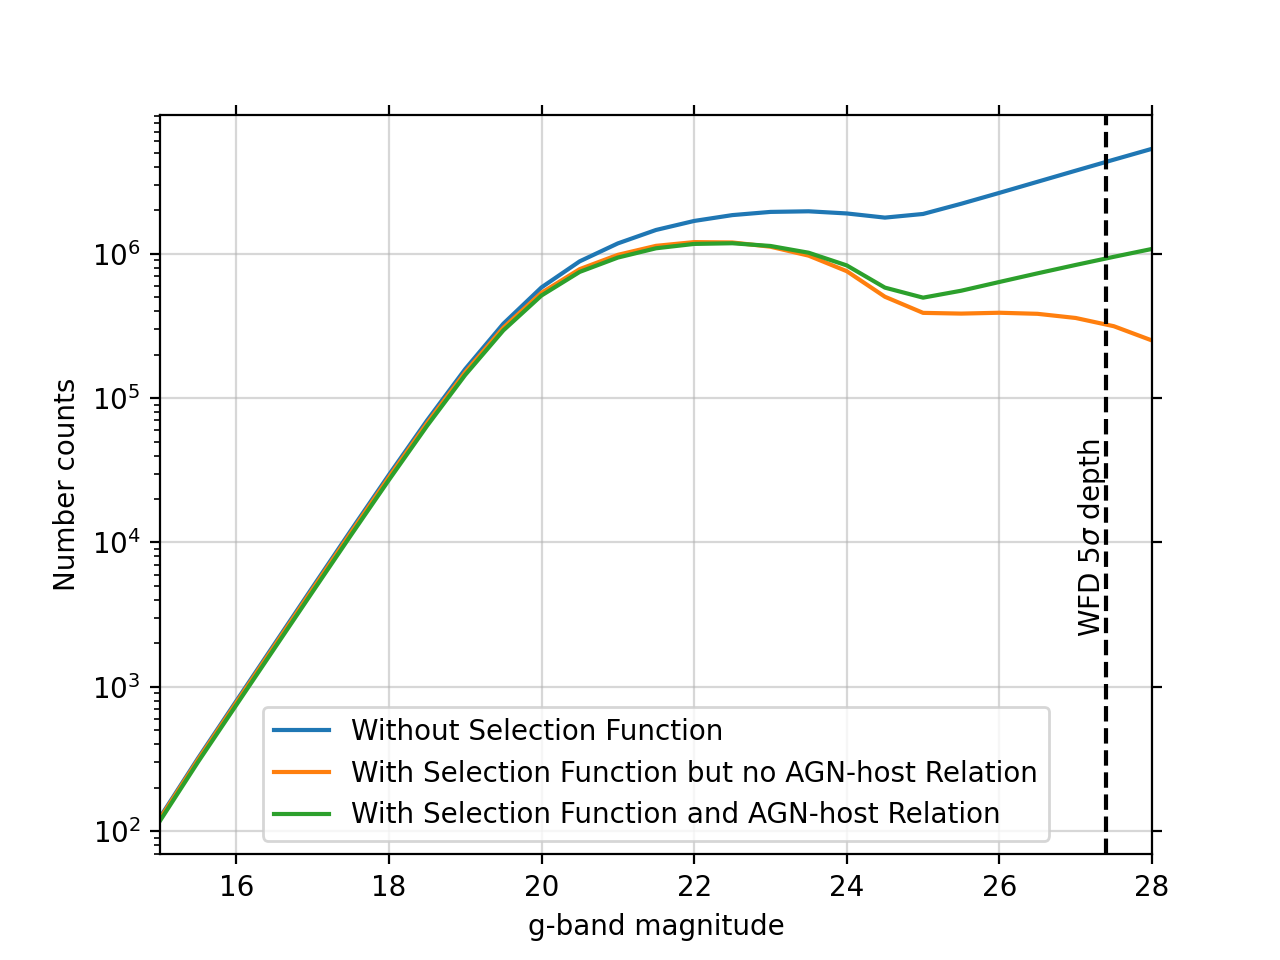
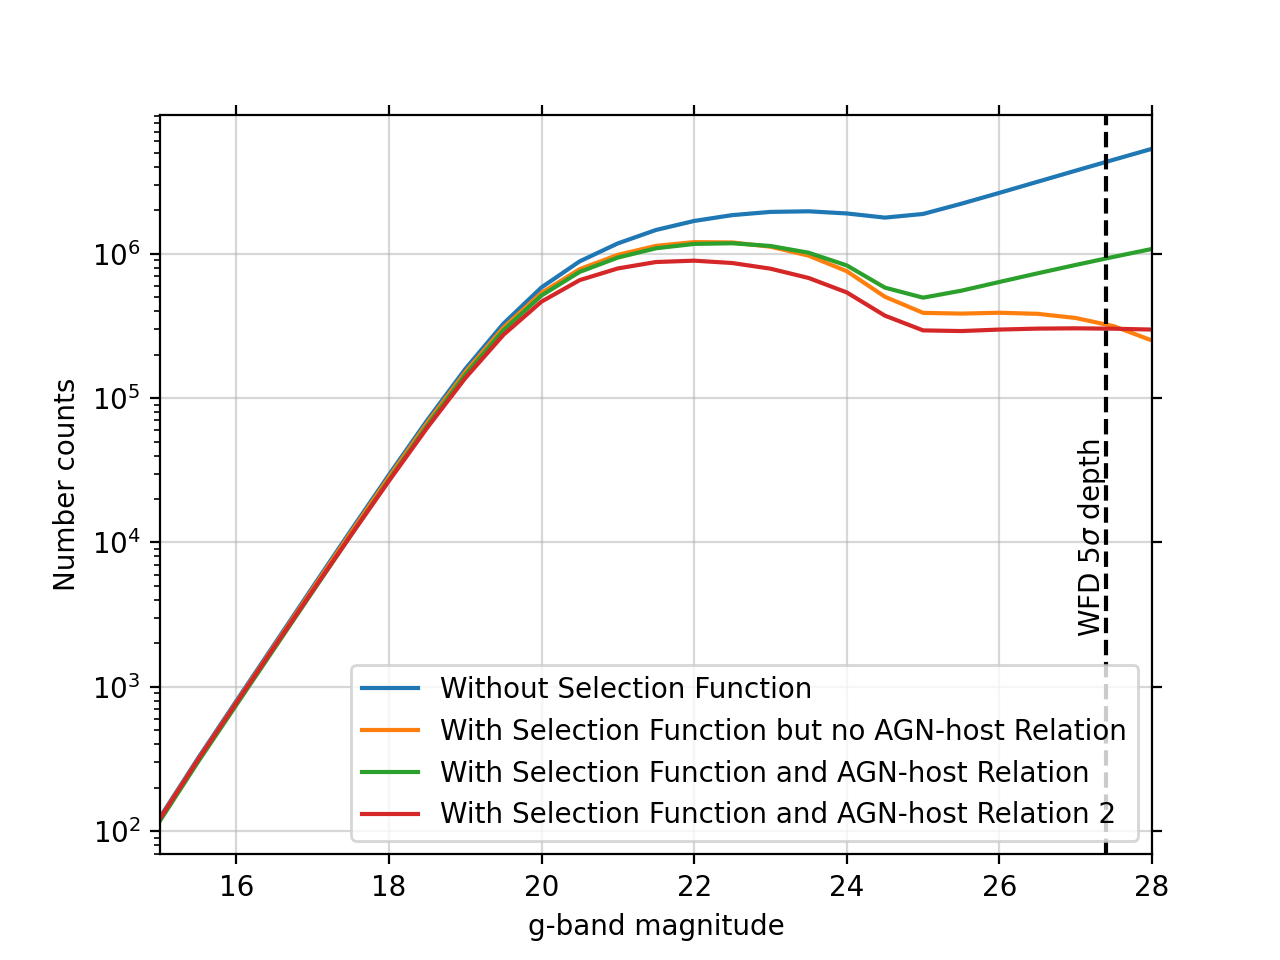
Implemented GLF from Ananna+22

diff --git a/qlfhosts/GLFs/Kollmeier06.py b/qlfhosts/GLFs/Kollmeier06.py
@@ -4,7 +4,9 @@ import astropy.units as u
 from astropy.constants import L_sun, c
 from scipy.special import erf
 
-class Kollmeier06(object):
+from .agnLeddBased import AGNLeddBased
+
+class Kollmeier06(AGNLeddBased):
 
     def __init__(self,**kargs):
 
@@ -15,28 +17,33 @@ class Kollmeier06(object):
 
     def P(self, Lh_nu_max, **kargs):
 
-        #Chek that the SED model object was passed along.
-        for key in ('L_AGN', 'hosts_sed', 'k_hosts_sed', 'lam_rest'):
-            if key not in kargs:
-                print('To calculate P in the Kollmeier06 module you need to include the parameter {}.'.format(key))
-                return [None]*len(Lh_nu_max)
+        # #Chek that the SED model object was passed along.
+        # for key in ('L_AGN', 'hosts_sed', 'k_hosts_sed', 'lam_rest'):
+        #     if key not in kargs:
+        #         print('To calculate P in the Kollmeier06 module you need to include the parameter {}.'.format(key))
+        #         return [None]*len(Lh_nu_max)
 
-        #Get the corresponding V-band bulge luminosity density for the host luminosity density at the rest-frame wavelength of the observations.
-        hosts_sed = kargs['hosts_sed']
-        k_hosts_sed = kargs['k_hosts_sed']
-        lam_rest = kargs['lam_rest']
-        Lh_nu_V_max = hosts_sed.Lnu(0.545*u.micron)[k_hosts_sed] * (Lh_nu_max/hosts_sed.Lnu(lam_rest)[k_hosts_sed])
-        Lh_nu_V_bulge_max = hosts_sed.bt_ratio[k_hosts_sed] * Lh_nu_V_max
+        # #Get the corresponding V-band bulge luminosity density for the host luminosity density at the rest-frame wavelength of the observations.
+        # hosts_sed = kargs['hosts_sed']
+        # k_hosts_sed = kargs['k_hosts_sed']
+        # lam_rest = kargs['lam_rest']
+        # Lh_nu_V_max = hosts_sed.Lnu(0.545*u.micron)[k_hosts_sed] * (Lh_nu_max/hosts_sed.Lnu(lam_rest)[k_hosts_sed])
+        # Lh_nu_V_bulge_max = hosts_sed.bt_ratio[k_hosts_sed] * Lh_nu_V_max
 
-        #Now, get the SMBH mass using the relation in eqn. (5) of Gultekin+09. We assume the solar Johnson-V luminosity density of Willmer (2018). Note that we get M_BH in solar masses.
-        M_V_sun_AB = 4.80
-        Lnu_V_sun = 3631.*u.Jy * 10**(-0.4*M_V_sun_AB) * 4*np.pi*(10*u.pc)**2
-        lM_BH_max = 8.95 + 1.11*np.log10(Lh_nu_V_bulge_max/(1e11*Lnu_V_sun) + 1e-32)
+        # #Now, get the SMBH mass using the relation in eqn. (5) of Gultekin+09. We assume the solar Johnson-V luminosity density of Willmer (2018). Note that we get M_BH in solar masses.
+        # M_V_sun_AB = 4.80
+        # Lnu_V_sun = 3631.*u.Jy * 10**(-0.4*M_V_sun_AB) * 4*np.pi*(10*u.pc)**2
+        # lM_BH_max = 8.95 + 1.11*np.log10(Lh_nu_V_bulge_max/(1e11*Lnu_V_sun) + 1e-32)
 
-        #Determine lambda_min, the minimum Eddington ratio possible. 
-        l_Ledd_max = np.log10(3.2)+4 + lM_BH_max #In solar luminosities.
-        L_AGN = kargs['L_AGN']
-        l_lambda_min = np.log10(L_AGN/L_sun) - l_Ledd_max
+        # #Determine lambda_min, the minimum Eddington ratio possible. 
+        # l_Ledd_max = np.log10(3.2)+4 + lM_BH_max #In solar luminosities.
+        # L_AGN = kargs['L_AGN']
+        # l_lambda_min = np.log10(L_AGN/L_sun) - l_Ledd_max
+
+        #Get the minimum l_lambda_min we need to be able to detect the AGN. This is based on estimating the maximum BH mass possible based on the maximum host luminosity allowed.
+        l_lambda_min = self.l_lambda_min(Lh_nu_max, **kargs)
+        if l_lambda_min is None:
+            return [None]*len(Lh_nu_max)
 
         #This is a convenience variable for the integration.
         xmin = (l_lambda_min - self.mu)/(self.sigma * 2**0.5)

diff --git a/qlfhosts/GLFs/Ananna22.py b/qlfhosts/GLFs/Ananna22.py
@@ -1,0 +1,73 @@
+import numpy as np
+from scipy.integrate import quad
+from scipy.interpolate import interp2d
+import astropy.units as u
+
+from .agnLeddBased import AGNLeddBased
+
+class Ananna22(AGNLeddBased):
+
+    def __init__(self, **kargs):
+
+        self.log_lam_e_star = -1.338
+        self.log_xi_star = -3.64
+        self.xi_star = 10**(self.log_xi_star)
+        self.delta_1 = 0.38
+        self.eps_lam = 2.260
+
+        self.log_MBH_star = 7.88
+        self.log_phi_star = -3.52
+        self.phi_star = 10.**(self.log_phi_star)
+        self.alpha = -1.576
+        self.beta = 0.593
+
+        #Bounds for integration. Exceed the limits from the BASS sample, but better that way for not having issues.
+        log_MBH1 = 5.
+        log_MBH2 = 10.
+        dlog_MBH = 0.1
+        log_MBH = np.arange(log_MBH1, log_MBH2+0.1*dlog_MBH, dlog_MBH)
+
+        log_Lbol1 = 35.
+        log_Lbol2 = 52.
+        dlog_Lbol = 0.25
+        log_Lbol = np.arange(log_Lbol1, log_Lbol2+0.1*dlog_Lbol, dlog_Lbol)
+
+        #Now, pre-compute the integrals, so that when the code runs, it is just interpolating between the points needed. 
+        precomp_P = np.zeros((len(log_Lbol), len(log_MBH)))
+        for j, log_Lbol_use in enumerate(log_Lbol):
+            norm = quad(self.func, log_MBH1, log_MBH2, args=(log_Lbol_use))[0]
+            for i, log_MBH_max in enumerate(log_MBH):
+                precomp_P[j,i] = quad(self.func, log_MBH1, log_MBH_max, args=(log_Lbol_use))[0]/norm
+        
+        #Finally, create the interpolation object.
+        self.P_interp = interp2d(log_MBH, log_Lbol, precomp_P)
+
+        return
+
+    def P(self, Lh_nu_max, **kargs):
+
+        #Get the maximum M_BH allowed given the maximum level of host galaxy permited. 
+        lM_BH_max = self.lM_BH_max(Lh_nu_max, **kargs)
+
+        #Now, compute the fraction of sources below that BH mass considering the Eddington ratio they would need to have to produce the observed luminosity L_AGN.
+        log_Lagn = np.log10(kargs['L_AGN'].to(u.erg/u.s).value)
+
+        #There is a severe problem for interp2d, in that no matter how one calls it, it will sort the input arguments and the result will be for the sorted arguments. So we need to call a sort in each loop, which makes the whole thing slower than it needs to be. NEED TO FIND A BETTER SOLUTION HERE! 
+        Prob = np.zeros(Lh_nu_max.shape)
+        for i in range(Lh_nu_max.shape[0]):
+            idx = np.argsort(lM_BH_max[i,:])
+            Paux = self.P_interp(lM_BH_max[i,:], log_Lagn[i,0])
+            Prob[i,idx] = Paux
+        return Prob
+
+    def xi(self, log_lam_e):
+        x = (log_lam_e-self.log_lam_e_star)
+        return 10.**(-self.delta_1 * x) / (1 + 10.**(self.eps_lam * x))
+
+    def phi(self, log_MBH):
+        x = log_MBH - self.log_MBH_star
+        return 10.**((self.alpha+1)*x) * np.exp(-10**(self.beta * x))
+
+    def func(self, log_MBH, log_Lbol):
+        log_lam_e = log_Lbol - log_MBH - 38.18
+        return self.phi(log_MBH) * self.xi(log_lam_e)

diff --git a/qlfhosts/GLFs/agnLeddBased.py b/qlfhosts/GLFs/agnLeddBased.py
@@ -1,0 +1,39 @@
+import numpy as np 
+import astropy.units as u
+from astropy.constants import L_sun
+
+class AGNLeddBased(object):
+
+    def l_lambda_min(self, Lh_nu_max, **kargs):
+
+        #Chek that the SED model object was passed along.
+        for key in ('L_AGN', 'hosts_sed', 'k_hosts_sed', 'lam_rest'):
+            if key not in kargs:
+                print('To calculate P in AGNLeddBased modules you need to include the parameter {}.'.format(key))
+                return None
+
+
+        #Determine lambda_min, the minimum Eddington ratio possible. 
+        l_Ledd_max = np.log10(3.2)+4 + self.lM_BH_max(Lh_nu_max, **kargs) #In solar luminosities.
+        L_AGN = kargs['L_AGN']
+        l_lambda_min = np.log10(L_AGN/L_sun) - l_Ledd_max
+
+        return l_lambda_min
+
+
+    def lM_BH_max(self, Lh_nu_max, **kargs):
+
+        #Get the corresponding V-band bulge luminosity density for the host luminosity density at the rest-frame wavelength of the observations.
+        hosts_sed = kargs['hosts_sed']
+        k_hosts_sed = kargs['k_hosts_sed']
+        lam_rest = kargs['lam_rest']
+        Lh_nu_V_max = hosts_sed.Lnu(0.545*u.micron)[k_hosts_sed] * (Lh_nu_max/hosts_sed.Lnu(lam_rest)[k_hosts_sed])
+        Lh_nu_V_bulge_max = hosts_sed.bt_ratio[k_hosts_sed] * Lh_nu_V_max
+
+        #Now, get the SMBH mass using the relation in eqn. (5) of Gultekin+09. We assume the solar Johnson-V luminosity density of Willmer (2018). Note that we get M_BH in solar masses.
+        M_V_sun_AB = 4.80
+        Lnu_V_sun = 3631.*u.Jy * 10**(-0.4*M_V_sun_AB) * 4*np.pi*(10*u.pc)**2
+        lM_BH_max = 8.95 + 1.11*np.log10(Lh_nu_V_bulge_max/(1e11*Lnu_V_sun) + 1e-32)
+
+        return lM_BH_max
+

diff --git a/mag_count_v2.py b/mag_count_v2.py
@@ -6,7 +6,7 @@ from astropy.cosmology import Planck15 as cosmo
 from regex import P
 from scipy.interpolate import interp1d
 
-from qlfhosts.GLFs import Uniform, Willmer06, Kollmeier06
+from qlfhosts.GLFs import Uniform, Willmer06, Kollmeier06, Ananna22
 
 from qlfhosts.util.phiObs import PhiObs
 
@@ -30,6 +30,7 @@ glfs = [
     Uniform,
     Willmer06,
     Kollmeier06,
+    Ananna22,
 ]
 
 #Set the observed magnitude boundaries. 
@@ -82,6 +83,7 @@ plt.grid()
 plt.plot(m_grid, Ntot[0], label='Without Selection Function')
 plt.plot(m_grid, Ntot[1], label='With Selection Function but no AGN-host Relation')
 plt.plot(m_grid, Ntot[2], label='With Selection Function and AGN-host Relation')
+plt.plot(m_grid, Ntot[3], label='With Selection Function and AGN-host Relation 2')
 plt.yscale('log')
 plt.legend()
 plt.xlabel("g-band magnitude")

diff --git a/qlfhosts/GLFs/__init__.py b/qlfhosts/GLFs/__init__.py
@@ -1,3 +1,4 @@
 from .Uniform import Uniform
 from .Willmer06 import Willmer06
 from .Kollmeier06 import Kollmeier06
+from .Ananna22 import Ananna22
